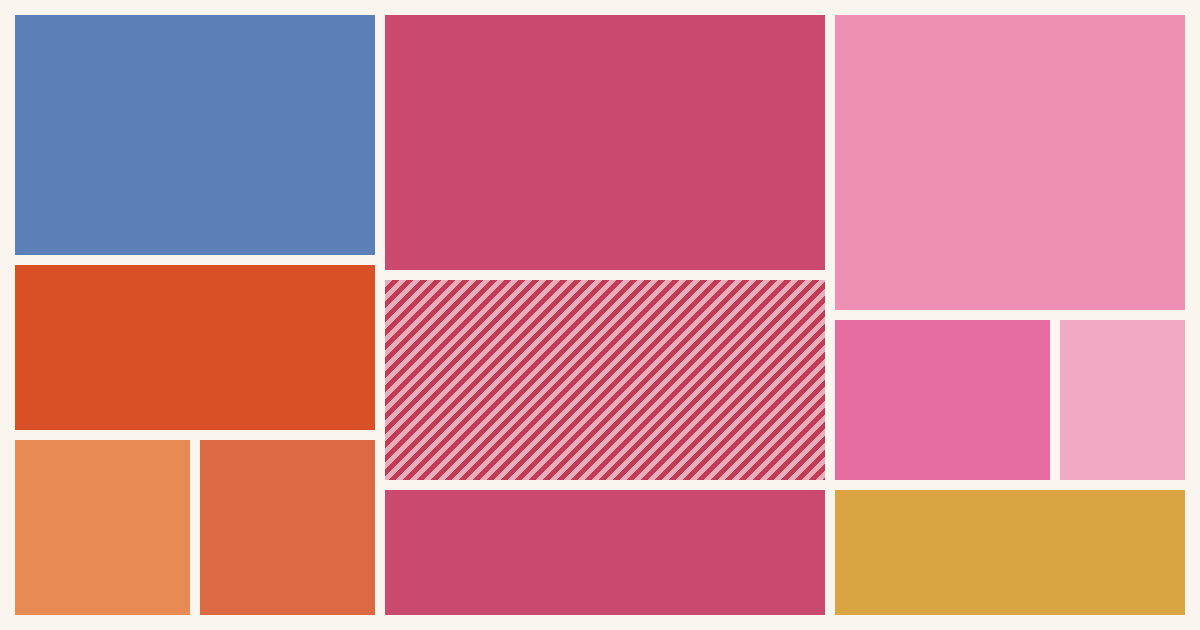
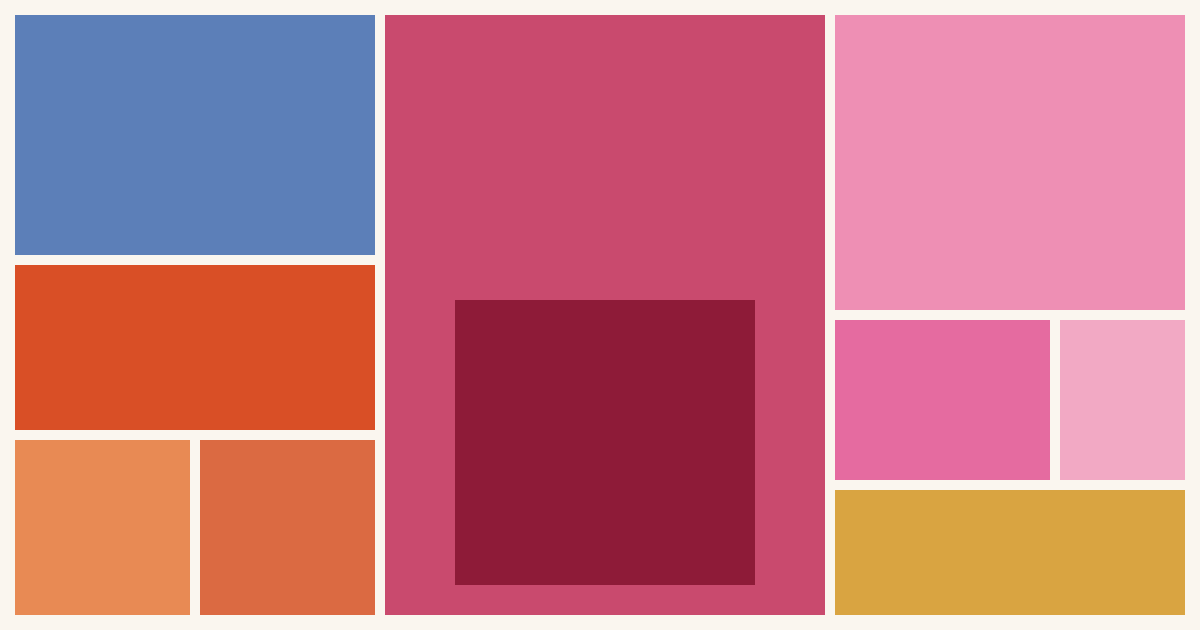
MAJ : déficit en aplat cramoisi encastré (encart), vignette + og-card cohérentes

Changed region(s): [[0.3083, 0.4222, 0.7092, 0.9349]]

diff --git a/treemap.js b/treemap.js
@@ -344,20 +344,25 @@
         "cotisation par : impôts affectés & dette " + fmt(impots) + " · subventions d'équilibre " +
         "des ministères (CAS Pensions) " + fmt(minCAS) + " · CNRACL " + fmt(cnracl) +
         " · transferts Sécu " + fmt(secuTr) + ". Part non contributive.";
-      // gapWidth:0 → les enfants sont FLUSH (pas de liseré crème) : le bloc se lit
-      // comme UN SEUL rectangle de 405 dont la zone rouge (136) est encastrée.
+      // Le déséquilibre = APLAT plein cramoisi (pas de hachure : elle est réservée
+      // aux estimations), ENCASTRÉ comme un encart flottant dans le bloc grâce à
+      // une « douve » de la couleur du bloc (bordure épaisse rose) → il se détache
+      // en carte, tout en restant proportionnel (34 % de 405).
+      const DEFICIT = "#8E1B38";                 // cramoisi profond = « le trou »
+      const moat = isPhone() ? 9 : 22;           // marge qui fait flotter l'encart
       retraites = { name: "Retraites — 405 Md€",
         itemStyle: { color: COL.pens, gapWidth: 0 }, upperLabel: { show: true, color: "#1E2430" },
         _tip: "405 Md€ de pensions versées (tous régimes). Les cotisations n'en couvrent que 269 : " +
-              "il manque 136 Md€ (la zone rouge).",
+              "il manque 136 Md€ (l'encart cramoisi).",
         children: [
           { name: "Financé par les cotisations", value: Math.round(cot * 100) / 100,
             itemStyle: { color: COL.pens, borderColor: COL.pens, borderWidth: 0, gapWidth: 0 },
             label: { color: inkFor(COL.pens) },
             _tip: "269 Md€ de cotisations vieillesse tous régimes (≈ 2/3 des ressources — COR)." },
           { name: "Déséquilibre des retraites", value: deficit,
-            itemStyle: { color: HATCH_RED, borderColor: ACCENT, borderWidth: 3, gapWidth: 0 },
-            label: { color: "#7E1D33", fontWeight: 800 }, _tip: brk },
+            itemStyle: { color: DEFICIT, borderColor: COL.pens, borderWidth: moat, gapWidth: 0,
+              shadowBlur: 10, shadowColor: "rgba(74,10,26,.35)" },
+            label: { color: "#FFFFFF", fontWeight: 800 }, _tip: brk },
         ] };
     }
 
@@ -405,7 +410,8 @@
   const SVG_HATCH = '<defs><pattern id="cmpHatch" width="7" height="7" patternTransform="rotate(45)" ' +
     'patternUnits="userSpaceOnUse"><rect width="7" height="7" fill="#E8ADBA"></rect>' +
     '<line x1="0" y1="0" x2="0" y2="7" stroke="#C13B55" stroke-width="4"></line></pattern></defs>';
-  const fillFor = (it) => it.id === "deficit" ? "url(#cmpHatch)" : (it.color || (it.type === "unite" ? "#E8C9B8" : "#E8C9B8"));
+  // le déficit = aplat cramoisi partout (cohérent avec l'encart du Mondrian)
+  const fillFor = (it) => it.id === "deficit" ? "#8E1B38" : (it.color || "#E8C9B8");
 
   function renderCompare() {
     let A = resolve(selA), B = resolve(selB);

diff --git a/treemap.html b/treemap.html
@@ -10,7 +10,7 @@
   <meta property="og:description" content="Chaque euro en rectangles proportionnels, le déséquilibre des retraites (136 Md€) en évidence, un switch qui révèle le maquillage comptable.">
   <meta property="og:image" content="https://michoc.github.io/ou-va-largent/assets/og-card.png">
   <link rel="preconnect" href="https://cdnjs.cloudflare.com">
-  <link rel="stylesheet" href="style.css?v=20260711c">
+  <link rel="stylesheet" href="style.css?v=20260711d">
 </head>
 <body class="mondrian" data-mode="realite">
   <header class="masthead">
@@ -21,9 +21,9 @@
       <p class="standfirst">
         Chaque euro dépensé, en <strong>rectangles proportionnels</strong> — une seule fois.
         Cliquez pour <strong>plonger</strong> (jusqu'au programme et à l'action), survolez pour
-        isoler un bloc. Le <strong style="color:#C13B55">déséquilibre des retraites</strong>
-        — 136&nbsp;Md€, hachures rouges — vit au sein du bloc «&nbsp;Retraites&nbsp;»,
-        et l'interrupteur ci-dessous révèle où l'État le camoufle.
+        isoler un bloc. Le <strong style="color:#8E1B38">déséquilibre des retraites</strong>
+        — 136&nbsp;Md€ — forme l'<strong>encart cramoisi</strong> encastré dans le bloc
+        «&nbsp;Retraites&nbsp;», et l'interrupteur ci-dessous révèle où l'État le camoufle.
       </p>
       <div class="statband" id="statband" aria-label="Total des dépenses"></div>
     </div>
@@ -93,7 +93,7 @@
         «&nbsp;semblent&nbsp;» coûter que 331&nbsp;Md€ en direct.</li>
       <li><strong>Budget tel qu'il finance les retraites</strong> — on neutralise le maquillage :
         ces 74&nbsp;Md€ rejoignent le bloc «&nbsp;Retraites&nbsp;», qui affiche ses vrais
-        405&nbsp;Md€, dont 136 de déséquilibre en rouge.</li>
+        405&nbsp;Md€, dont 136 de déséquilibre dans l'encart cramoisi.</li>
     </ul>
     <div class="report-actions">
       <button type="button" class="crumb report-send" id="mode-dlg-close">Compris</button>
@@ -101,7 +101,7 @@
   </dialog>
 
   <script src="https://cdnjs.cloudflare.com/ajax/libs/echarts/5.5.0/echarts.min.js"></script>
-  <script src="treemap.js?v=20260711c"></script>
+  <script src="treemap.js?v=20260711d"></script>
   <script>
     // légende dynamique du switch + dialogue d'explication
     (function () {

diff --git a/sankey.html b/sankey.html
@@ -11,7 +11,7 @@
   <meta property="og:image" content="https://michoc.github.io/ou-va-largent/assets/og-card.png">
   <link rel="preconnect" href="https://cdnjs.cloudflare.com">
   <!-- ?v= : cache-busting — incrémenter à chaque déploiement de style/app -->
-  <link rel="stylesheet" href="style.css?v=20260711c">
+  <link rel="stylesheet" href="style.css?v=20260711d">
 </head>
 <body>
   <header class="masthead">
@@ -88,6 +88,6 @@
   </dialog>
 
   <script src="https://cdnjs.cloudflare.com/ajax/libs/echarts/5.5.0/echarts.min.js"></script>
-  <script src="app.js?v=20260711c"></script>
+  <script src="app.js?v=20260711d"></script>
 </body>
 </html>

diff --git a/index.html b/index.html
@@ -11,7 +11,7 @@
   <meta property="og:image" content="https://michoc.github.io/ou-va-largent/assets/og-card.png">
   <link rel="preconnect" href="https://cdnjs.cloudflare.com">
   <!-- ?v= : cache-busting — incrémenter à chaque déploiement de style/app -->
-  <link rel="stylesheet" href="style.css?v=20260711c">
+  <link rel="stylesheet" href="style.css?v=20260711d">
 </head>
 <body class="landing">
   <header class="masthead">